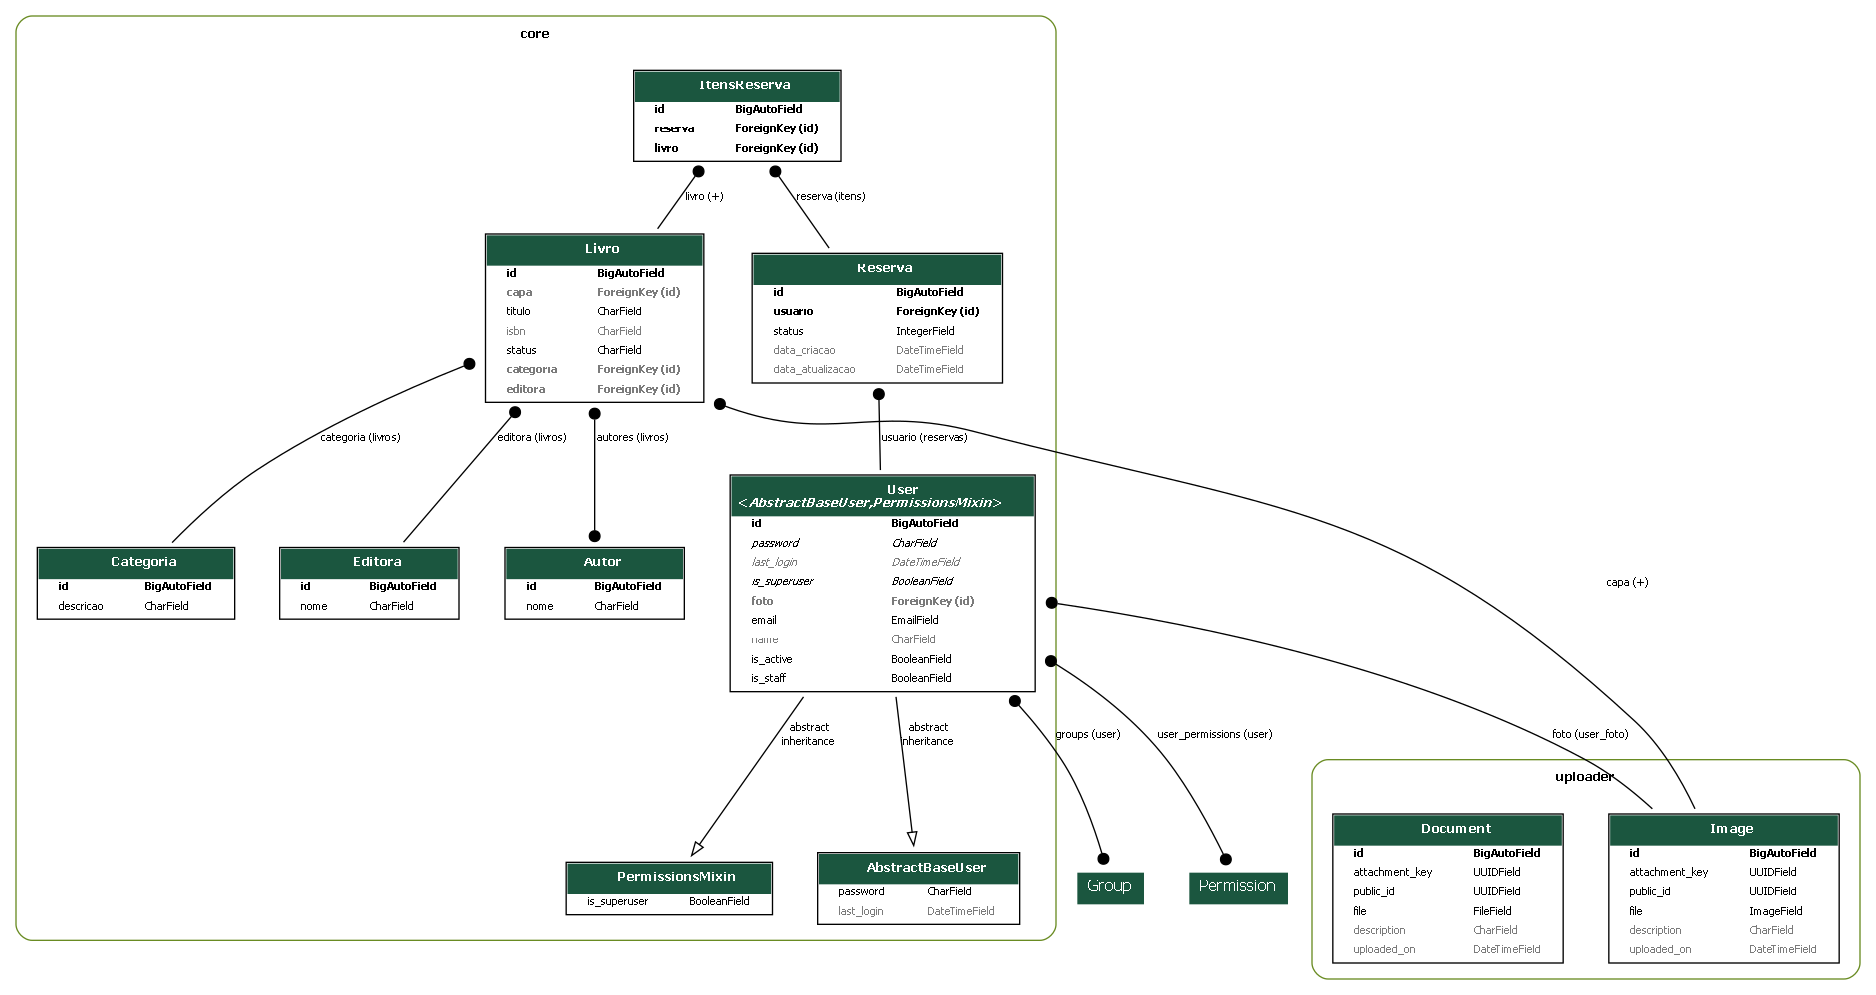
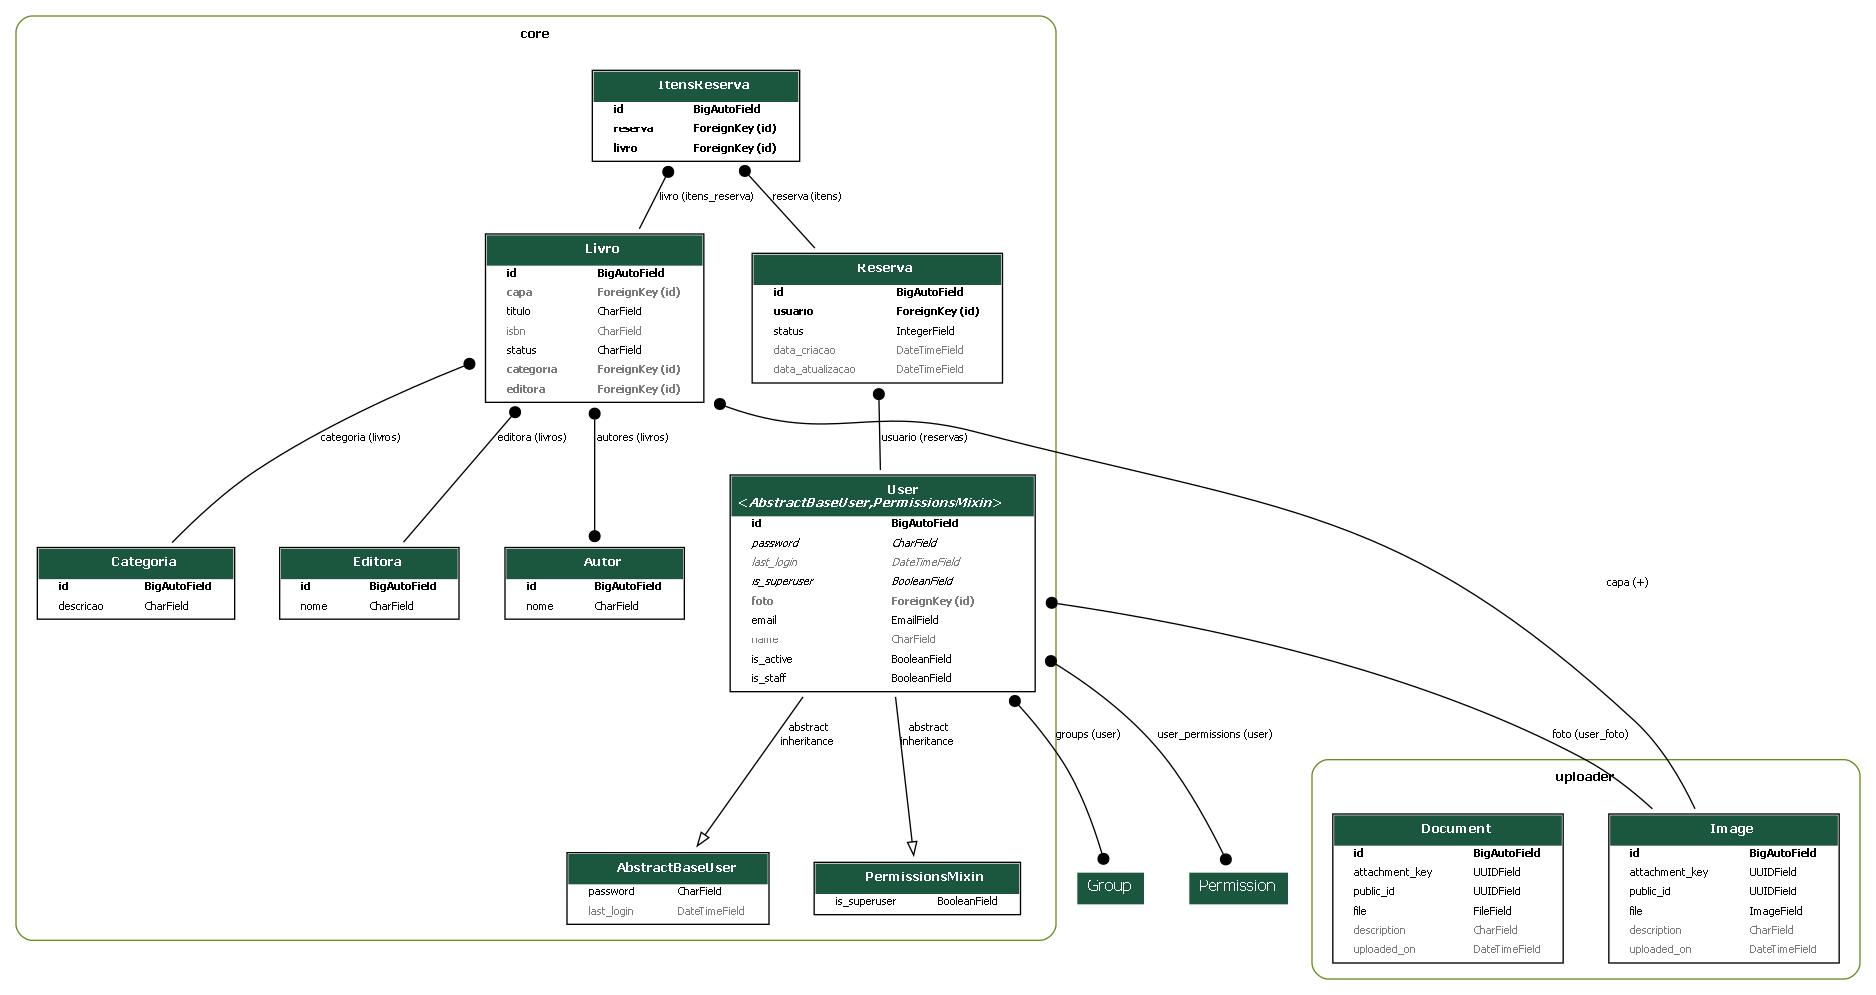
feat: listando livros com mais de 10 reservas

Changed region(s): [[0.2783, 0.8412, 0.5565, 0.9347], [0.3092, 0.0623, 0.4638, 0.2181], [0.4019, 0.7166, 0.4328, 0.7477]]

diff --git a/core/views/livro.py b/core/views/livro.py
@@ -1,6 +1,14 @@
+from django.db.models import Count, Q
+from rest_framework import status
+from rest_framework.decorators import action
+from rest_framework.response import Response
 from rest_framework.viewsets import ModelViewSet
-from core.models import Livro
-from core.serializers import LivroListSerializer, LivroSerializer, LivroRetrieveSerializer
+
+from drf_spectacular.utils import extend_schema
+
+from core.models import Livro, Reserva
+from core.serializers import LivroSerializer
+from core.serializers.livro import LivroMaisReservadoSerializer, LivroListSerializer, LivroRetrieveSerializer
 
 class LivroViewSet(ModelViewSet):
     queryset = Livro.objects.all()
@@ -12,3 +20,46 @@ class LivroViewSet(ModelViewSet):
         elif self.action == 'retrieve':
             return LivroRetrieveSerializer
         return LivroSerializer
+
+    @extend_schema(
+    summary="Lista os livros mais reservados",
+    description="Retorna os livros que foram reservados mais de 10 vezes.",
+    responses={
+        200: LivroMaisReservadoSerializer(many=True)
+    },
+    )
+    @action(detail=False, methods=['get'])
+    def mais_reservados(self, request):
+        livros = Livro.objects.annotate(
+            total_reservas=Count(
+                'itens_reserva__reserva',
+                filter=Q(
+                    itens_reserva__reserva__status__in=[
+                        Reserva.StatusReserva.RESERVADO,
+                        Reserva.StatusReserva.RETIRADO,
+                        Reserva.StatusReserva.DEVOLVIDO,
+                    ]
+                ),
+                distinct=True
+            )
+        ).filter(
+            total_reservas__gt=10
+        ).order_by('-total_reservas')
+    
+        serializer = LivroMaisReservadoSerializer(
+            livros,
+            many=True
+        )
+    
+        if not serializer.data:
+            return Response(
+                {
+                    "detail": "Nenhum livro possui mais de 10 reservas."
+                },
+                status=status.HTTP_200_OK
+            )
+    
+        return Response(
+            serializer.data,
+            status=status.HTTP_200_OK
+        )

diff --git a/core/serializers/livro.py b/core/serializers/livro.py
@@ -1,4 +1,4 @@
-from rest_framework.serializers import ModelSerializer, SlugRelatedField
+from rest_framework.serializers import ModelSerializer, SlugRelatedField, IntegerField, ModelSerializer
 from core.models import Livro
 from uploader.models import Image
 from uploader.serializers import ImageSerializer
@@ -29,3 +29,10 @@ class LivroRetrieveSerializer(ModelSerializer):
         model = Livro
         fields = '__all__'
         depth = 1
+
+class LivroMaisReservadoSerializer(ModelSerializer):
+    total_reservas = IntegerField()
+
+    class Meta:
+        model = Livro
+        fields = ('id', 'titulo', 'total_reservas')

diff --git a/core/migrations/0021_alter_itensreserva_livro.py b/core/migrations/0021_alter_itensreserva_livro.py
@@ -1,0 +1,19 @@
+# Generated by Django 5.2.17 on 2026-09-23 14:49
+
+import django.db.models.deletion
+from django.db import migrations, models
+
+
+class Migration(migrations.Migration):
+
+    dependencies = [
+        ('core', '0020_rename_data_reserva_data_criacao_and_more'),
+    ]
+
+    operations = [
+        migrations.AlterField(
+            model_name='itensreserva',
+            name='livro',
+            field=models.ForeignKey(on_delete=django.db.models.deletion.PROTECT, related_name='itens_reserva', to='core.livro'),
+        ),
+    ]
